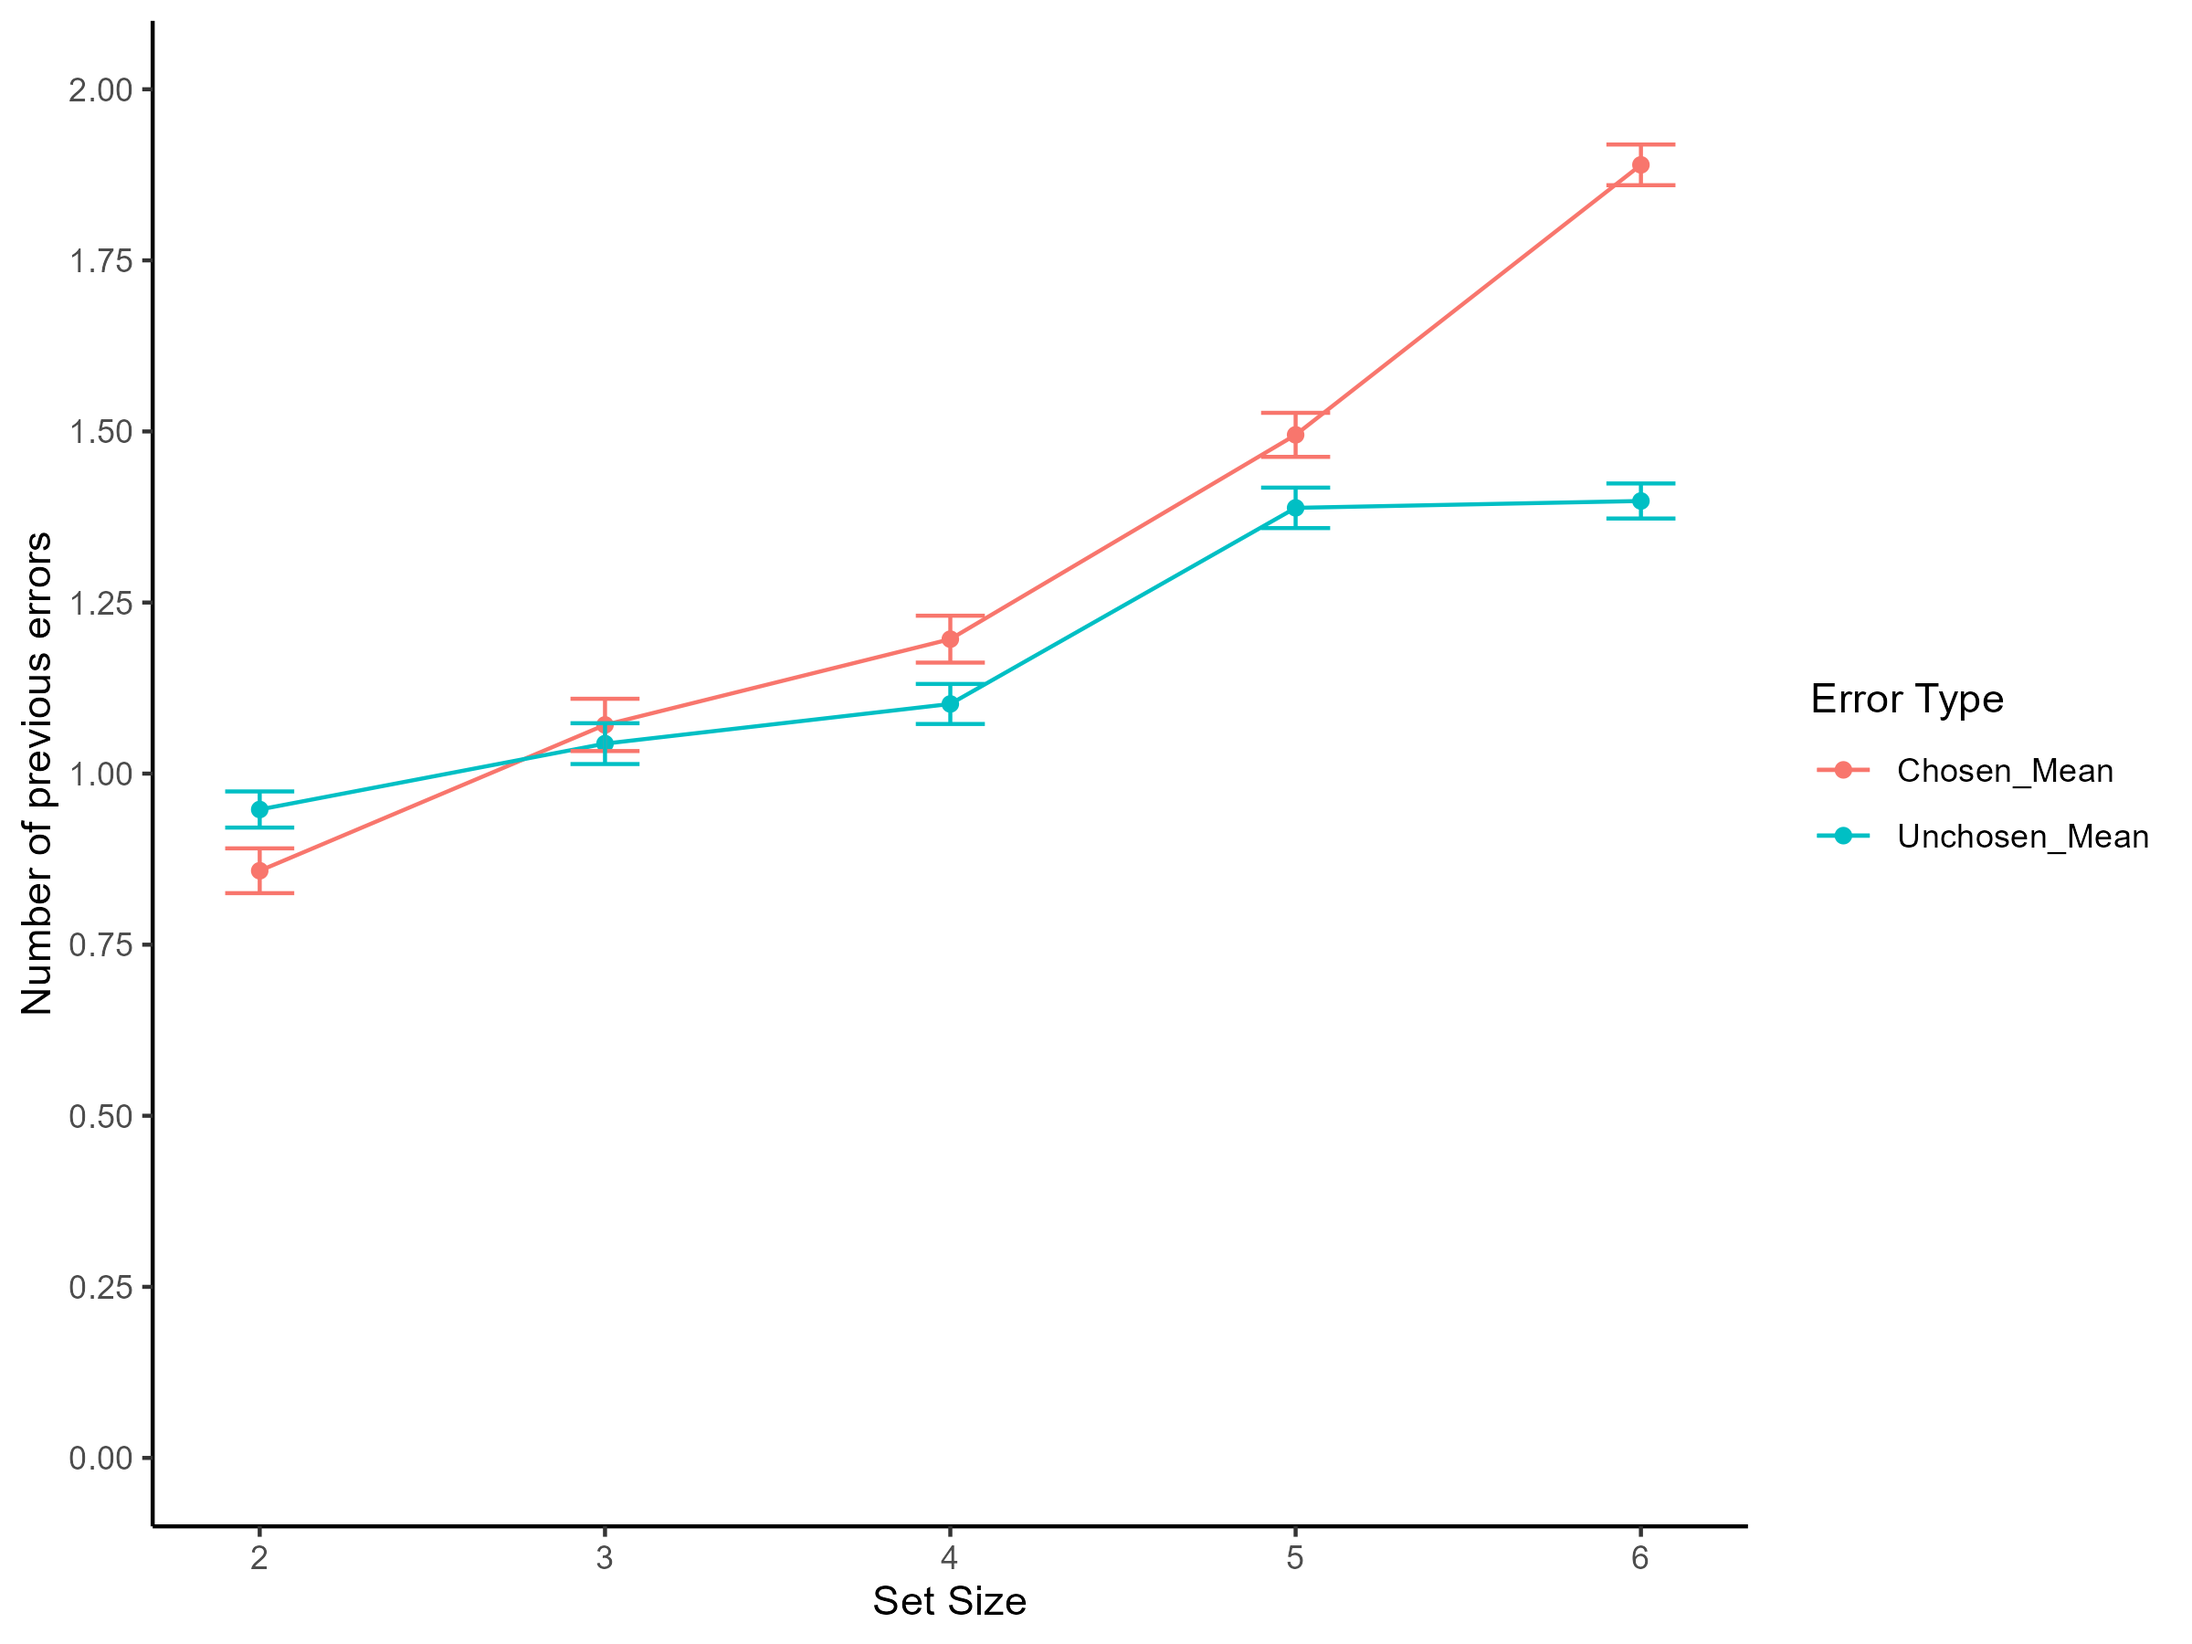
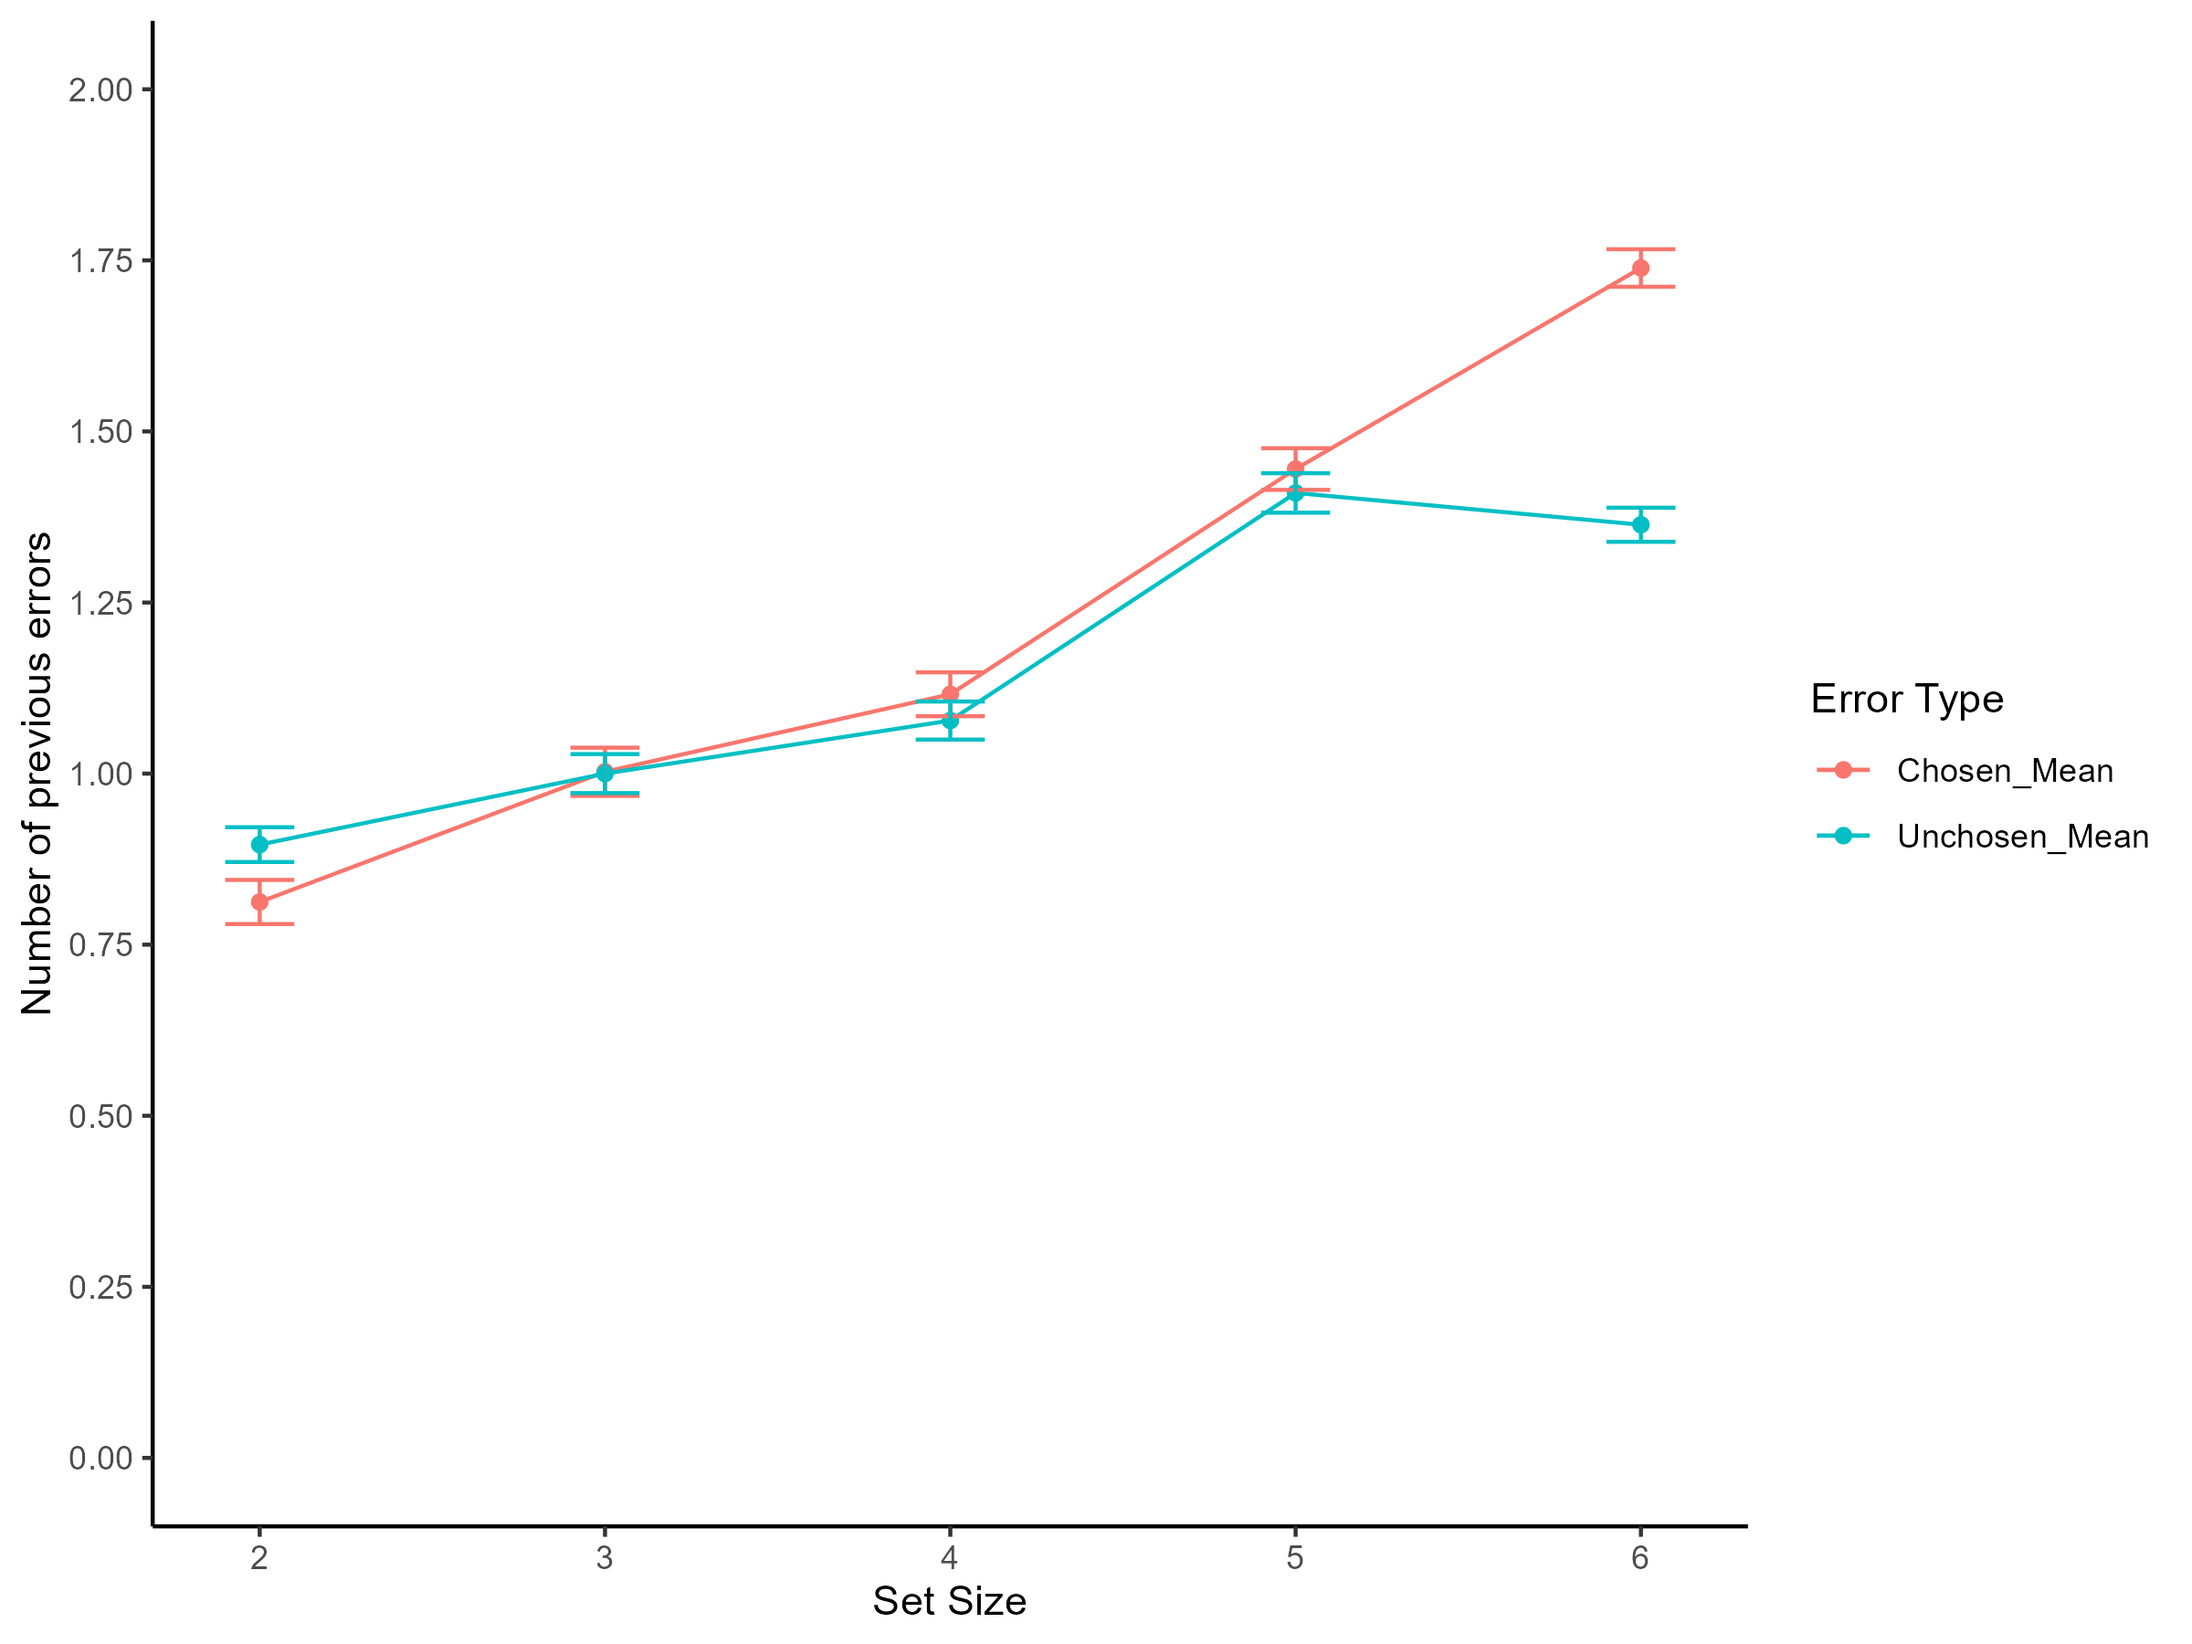
without bonus
最终决定将bonus删掉
1. 删掉后, setsize效应几乎没变化
2. 删掉后, error effect的两条线更低. 这是更贴近人类结果的
3. 奥卡姆剃刀

diff --git a/README.md b/README.md
@@ -40,6 +40,7 @@ In each trial, an image is presented, and participants choose between **three di
 2. Upper-Confidence-Bound cannot be applied to this paradigm, so `delta` needs to be fixed at `0`. Since there are only three actions (J, K, L) for each image, once the correct option is found, there's no need to explore the others.
 3. Each block features a new image, so we need a `reset`. With only three options available, the initial Q-value (`Q0`) and the `reset` value should both be `0.33`.
 4. Since we aren't learning the expected value of a bandit, the inverse temperature parameter should be quite high. I suggest setting the `rate` to `0.1` and the search range is `(0, 50)`.
+5. Technically, picking the correct option should reset the values of all other choices to zero. But since removing this `bonus` didn’t really affect the behavioral plots, I eventually decided to drop it to keep the model simpler.
 
 ---
 
